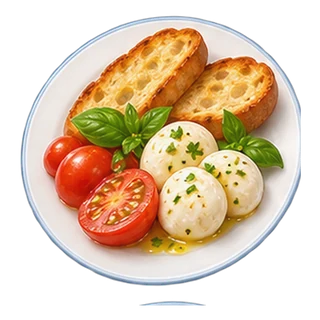
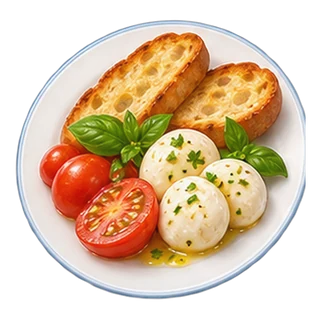
Deep check: dish slivers re-cut, regulars' portrait back on the card, flag emoji replaced, stale tests updated, pages crawl
- 22 dish pictures carried slivers of the neighbouring plate; make-dish-assets.py drops small edge-touching pieces; all 221 re-verified
- OrderArrivalCard shows the regular's CustomerBust again (npc-sprites-qa F5)
- Italian flag emoji replaced by painted dishes (levels 20/30, camp-italian-garden-plate)
- usd-currency-qa G false positive on the card's SVG path fixed
- Tests updated to the new rule (RULE CHANGE 2026-11-21, none weakened): idle-qa W2, phase5-qa A13, phone-layout-qa B2, restaurant-measures-qa A4
- New tools/e2e/pagesaudit.mjs: 58-page crawl (requests, broken images, icon sizes, raw emoji, sideways scroll)
- HANDOFF entry; oven-step-qa E2 still a documented stale diff guard

diff --git a/src/components/kc/game/OrderArrivalCard.tsx b/src/components/kc/game/OrderArrivalCard.tsx
@@ -1,4 +1,4 @@
-import type { CSSProperties } from "react";
+import type { CSSProperties, ReactNode } from "react";
 import { dishArtUrl } from "@/game/dishArt";
 import "./orderCard.css";
 
@@ -26,6 +26,8 @@ export type OrderCardProps = {
   compact?: boolean;
   /** The font size of the card (the screen sets it from its own size). */
   size: string;
+  /** A named regular's portrait (`CustomerBust`), shown on the banner's left edge once they are seated; without one nothing is drawn. */
+  bust?: ReactNode;
 };
 
 function Hat() {
@@ -116,14 +118,14 @@ function Laurel({ flip }: { flip?: boolean }) {
       ].map(([x, y, r], i) => (
         <g key={i}>
           <path
-            d={`M${x} ${y}c-9-2-16 4-17 12 8 1 15-3 17-12Z`}
+            d={`M${x} ${y} c-9-2-16 4-17 12 8 1 15-3 17-12Z`}
             fill="#f2c85a"
             stroke="#c9942c"
             strokeWidth="1.2"
             transform={`rotate(${(r as number) - 60} ${x} ${y})`}
           />
           <path
-            d={`M${(x as number) + 5} ${(y as number) - 4}c8-4 15 0 17 8-8 2-15-1-17-8Z`}
+            d={`M${(x as number) + 5} ${(y as number) - 4} c8-4 15 0 17 8-8 2-15-1-17-8Z`}
             fill="#f7d878"
             stroke="#c9942c"
             strokeWidth="1.2"
@@ -173,6 +175,7 @@ export function OrderArrivalCard({
   prepCook,
   compact = false,
   size,
+  bust,
 }: OrderCardProps) {
   const art = dishArtUrl(dish.id);
   const heading =
@@ -193,6 +196,11 @@ export function OrderArrivalCard({
       onClick={(e) => e.stopPropagation()}
     >
       <div className="oc-banner">
+        {bust && state === "seated" ? (
+          <span className="oc-bust" data-testid="order-card-bust">
+            {bust}
+          </span>
+        ) : null}
         <Hat />
         <Sprig />
         <Sprig flip />

diff --git a/src/components/kc/game/ServiceFloor.tsx b/src/components/kc/game/ServiceFloor.tsx
@@ -30,6 +30,7 @@ import { GuestPoses } from "../restaurantMap/GuestPoses";
 import { ambientDiners } from "@/game/restaurant/ambientDiners";
 import { dishArtUrl } from "@/game/dishArt";
 import { OrderArrivalCard } from "./OrderArrivalCard";
+import { CustomerBust } from "@/components/kc/common/CustomerBust";
 import { TableCash } from "../common/TableCash";
 import { cashSpotBeside } from "@/game/restaurant/tableCash";
 import { AUTO_SERVE_MS } from "@/game/restaurant/prepCookAuto";
@@ -523,6 +524,14 @@ export function ServiceFloor({
               onStart={finish}
               prepCook={prepCook && sitting ? prepCook : undefined}
               compact={!wide}
+              bust={
+                <CustomerBust
+                  customerId={customer.id}
+                  expression="neutral"
+                  fallback={customer.avatarEmoji}
+                  em={2}
+                />
+              }
               size={wide ? "clamp(8px, min(2.4cqh, 1.4cqw), 30px)" : "clamp(8px, 2.5cqw, 15px)"}
             />
           </div>

diff --git a/src/game/levels/levelDefinitions.ts b/src/game/levels/levelDefinitions.ts
@@ -712,7 +712,7 @@ const SOURCE_LEVELS: LevelDefinition[] = [
     subtitle: "The chapter's signature dish",
     description:
       "Everything this chapter taught, on one plate — dice, slice, chop, and rings, all Italian.",
-    emoji: "🇮🇹",
+    emoji: "🥗",
     recipeId: "camp-italian-garden-plate",
     objectives: [
       { type: "prepareIngredient", ingredientId: "tomato", technique: "dice" },
@@ -1098,7 +1098,7 @@ const SOURCE_LEVELS: LevelDefinition[] = [
     subtitle: "Two customers, the whole chapter combined",
     description:
       "A full night of service — two customers, drawing on every Italian recipe this chapter has taught.",
-    emoji: "🇮🇹",
+    emoji: "🍝",
     recipeId: "level-30",
     objectives: [
       { type: "prepareIngredient", ingredientId: "bread", technique: "slice" },

diff --git a/src/components/kc/game/orderCard.css b/src/components/kc/game/orderCard.css
@@ -50,6 +50,28 @@
   vertical-align: 0.25em;
   color: #e9b94f;
 }
+.oc-bust {
+  position: absolute;
+  left: -1.35em;
+  top: 50%;
+  z-index: 3;
+  width: 2.9em;
+  height: 2.9em;
+  transform: translateY(-50%);
+  border-radius: 50%;
+  border: 0.16em solid #e2b45a;
+  background: #fff6e1;
+  box-shadow: 0 0.2em 0.5em rgba(30, 14, 4, 0.5);
+  display: grid;
+  place-items: center;
+  overflow: hidden;
+  font-size: 1.5em;
+  line-height: 1;
+}
+.oc-bust > * {
+  width: 100% !important;
+  height: 100% !important;
+}
 .oc-hat {
   position: absolute;
   left: 50%;

diff --git a/src/game/recipes/campaignRecipes.ts b/src/game/recipes/campaignRecipes.ts
@@ -696,7 +696,7 @@ const SOURCE_CAMPAIGN_RECIPES: RecipeDefinition[] = [
   {
     id: "camp-italian-garden-plate",
     name: "Italian Garden Plate",
-    emoji: "🇮🇹",
+    emoji: "🥗",
     cuisineId: "italian",
     authenticity: "B",
     components: [

diff --git a/scripts/make-dish-assets.py b/scripts/make-dish-assets.py
@@ -53,10 +53,19 @@ for sh in sheets:
         core = al > CORE
         labels, n = ndimage.label(ndimage.binary_dilation(core, structure=np.ones((3, 3)), iterations=4))
         keep = np.zeros_like(core)
+        parts = []
         for lab in range(1, n + 1):
             part = (labels == lab) & core
             if part.sum() >= 300:  # the dish and its garnish; not a speck
-                keep |= part
+                ys_, xs_ = np.nonzero(part)
+                touches = xs_.min() <= 2 or ys_.min() <= 2 or xs_.max() >= CELL - 3 or ys_.max() >= CELL - 3
+                parts.append((part, int(part.sum()), touches))
+        biggest = max((p[1] for p in parts), default=0)
+        for part, area, touches in parts:
+            # a small piece that touches the cell edge is the rim of the NEIGHBOUR's plate reaching over the cell line (some plates overhang by a few px): not part of this dish
+            if touches and area < 0.35 * biggest:
+                continue
+            keep |= part
         if keep.sum() < 3000:
             problems.append(f"{sh['sheet']} #{i + 1} {dish['id']}: no dish found")
             continue

diff --git a/docs/HANDOFF.md b/docs/HANDOFF.md
@@ -13,6 +13,7 @@
 - **Fridge Sort laid out like the developer's mock-up (2026-11-20, uncommitted):** wide window only (the upright layout is untouched). `FridgeSortGame.tsx`: the root is a container (`cqh` / `cqw`) and, with `land:`, a two-column grid (46 / 54): HUD row (back, timer plaque, score), star bar, note pill + ? on the left, a BIG basket (`min(100%, 78cqh)` wide; pieces are a share of the basket's width, never under 48 px: `px()`) and the Delivery pill (wraps) under it; on the right the cream cabinet with a gold rim from 11.5 % to 95 % of the height, the Prep Cook pill (cream) at its top right. Shelf rows are fixed shares of the window's height (`rowSizes`: band 10.5 cqh, bin row 17 cqh, 8.6 / 13 when dense; a few shelves stretch up to 1.3 x, many scroll under the "More shelves below" cue). Checked by screenshot at 1917 x 912, 1280 x 720 and 844 x 390; `fridgesort.mjs` S29 (new: basket left and >= 30 % of the width, cabinet right, shelves and pieces >= 48 px, no sideways scroll, tap-tap sorts the basket) and all old checks pass. PICTURES INTEGRATED (developer 2026-11-21: Codex delivered both sets): (A) the room `TL-game-fridge-sort.png` (brick wall, lantern, jar shelf, chopping boards, checkered cloth; `make-landscape-assets.py` -> `game-fridge-sort.webp`, 108 KB; the wide game uses `backgroundPosition: center 35%` so the jar shelf stays under the note row and the cloth under the basket at any window shape); (B) the crate sheet `Fridge Sort Crates Assets/FSC-crates.png` (5 x 2 cells) cut by the NEW `scripts/make-fridge-sort-crates.py` into the nine files the game already loads (`bin-roots|salad|stems|pods`, `drawer-fruit|greens`, `rack-butter|aromatics`, `shelf-glass`, 360 px wide, 249 KB in all, all crates on ONE canvas so the blank name slat is at the same height). RULE CHANGE in `FridgeSortGame.tsx`: all eight crates are one `bin` kind (name tag at `top-[79%]`); the old drawer / rack shapes are gone, and `make-market-assets.py` no longer rebuilds those nine files (it would overwrite the new ones). The new crates are used in the UPRIGHT layout too (same files). Checked by screenshot (1917 x 912, 1280 x 720, 390 x 844); `fridgesort.mjs`, `fridge-sort-qa`, `landscape-art-qa` (10.4 MB < 12 MB), `full-screen-qa` pass. The HUD line icons stay until the painted icon sheets arrive.
 - **Customers integrated into the wide dining room (developer 2026-11-20: "the customers are not integrated properly", uncommitted):** in the wide dining picture (the view while a customer is served: `ServiceFloor`, `.sf[data-wide]`) the guests were drawn 63 px tall beside 100 px chairs, the reaction face was a huge circle floating far above them, and the other 12 tables were empty. (1) SIZE: `.sf[data-wide] .sf-person` is 5.2 % of the picture's width (was 3.3 %) and everything that rises above a head (order bubble, face, carried plate) is measured in the VIEW's height (`--h`), so it follows the picture; the plate is 3.2 %. (2) SEAT: a seated guest is the back view cut at the waist (the tall map's chair hid the legs); in the wide picture the chair is painted, so `.guest-back-view` is moved down 24 % to put the waist on the seat. (3) OTHER DINERS: `src/game/restaurant/ambientDiners.ts` (new): about three tables in four of each stage have one guest in their front chair (`.sf-diner`, `data-testid=floor-diner`, drawn only when wide, before the party so the party is on top); the tables were measured on a 5 % grid over each `dining-0N.webp` (NOT `STAGE_TABLES_WIDE`, which belongs to the map pictures: using it put the guests in the street). 21 diners over the six stages; presentation only. Guard: `service-floor-qa` F1 (diners inside the room, never on a front table, stable) and F2 (wide only). Checked by screenshot (a throwaway preview page, deleted) on the humble, cafe and grand rooms. `service-floor-qa`, `dining-floor-qa`, `guest-walk-qa`, `restaurant-floor-life-qa`, `restaurant-guests-qa` pass. NOT done: diners at the side and back chairs (the people sheets have no seated front or side pose), walking ambient guests in this view, and `servicefloor.mjs` / `servicefloorstages.mjs` are STALE (level numbering) so the flow was not re-run end to end.
 - **Dessert Run wide board redone like the developer's mock-up (2026-11-20, uncommitted):** `dessertRunWide.ts` rewritten, rules untouched. Header across the top (back, a wide name pill, speed / tip / pause on the right: the screen's DOM); the big upright plate at the top left with the aisle and cart under it (`SCALE` 0.79, `CX`/`PY`), the two tables and four guests along the bottom either side of the cart (the plate's lower rim sits behind the guests' heads); on the right a wooden cabinet painted in code: the five standby spots in a ROW on the top shelf (the first nearest the plate) and the queue under it as COLUMNS, one a lane, front waiter on top, `+N` under a column with more than three waiters, a tap anywhere in a column sends its front waiter (`laneAtWide`). The room's counter along the bottom is a full-width DOM strip (`dr-counter`) behind the canvas. RULE CHANGE (test updated): `dessertrun.mjs` D9 taps a COLUMN now (lanes were rows). Checked by screenshot at 1917 x 912, 1280 x 720 (a 5-lane level) and 844 x 390; `dessertrun`, `portraitonly`, `full-screen-qa`, `landscape-art-qa` pass. The mock-up's wall background (plain wood, lanterns, flowers) is NOT made: the Codex room `game-dessert-run.webp` is behind it.
+- **DEEP CHECK for bugs and for icon / image integration (developer 2026-11-21, uncommitted):** ran ALL 185 `*-qa.mts` suites, tsc, eslint (0 errors; 16 old react-refresh warnings), preflight, and a NEW crawl `tools/e2e/pagesaudit.mjs` (58 pages: Kitchen, Orders, Market + 9 tabs, Business + 8 tabs, Inventory + 4 tabs, Progress, the map, the Second Floor, at 1500 x 850 and 390 x 844: no 4xx / 5xx request, no page or console error, no broken `<img>`, every painted icon 0.8-1.7 em of its text, no REAL emoji left as raw text (Extended_Pictographic; the text symbols checkmark, star and diamond are typography), no sideways scroll): ALL 58 PASS, and the screenshots were read by eye. FOUND AND FIXED: (1) 22 of the 221 dish pictures carried small grey arcs, slivers of the neighbouring plate reaching over the cell line (DS-05, 07, 09, 10): `make-dish-assets.py` now drops a small piece that touches the cell edge (< 35 % of the dish's own area); re-cut; a scan finds no dish with a separate piece; every dish was compared with its recipe name on labelled sheets. (2) My new starting card had DROPPED the regulars' portrait (`npc-sprites-qa` F5): it is back as a round `CustomerBust` on the banner's left edge once the customer sits (`OrderArrivalCard` `bust` prop, `.oc-bust`). (3) The Italian FLAG emoji (levels 20 and 30, recipe `camp-italian-garden-plate`) shows as the letters "IT" on Windows and had no icon: now a salad and spaghetti (no flag emoji is left in `src`). (4) `usd-currency-qa` G tripped on `${y}c-9` in the card's SVG path (read as money formatting): a space was added. STALE TESTS updated to the real current code, each marked RULE CHANGE 2026-11-21 (they broke on the 2026-11-19/20 landscape work, none was weakened): `idle-qa` W2 (the Second Floor's cash spot is `wide ? WIDE_SF_CASH_AT : PICKUP_CASH_AT`), `phase5-qa` A13 (the cutting screen's wide kitchen picture), `phone-layout-qa` B2 (Fridge Sort's two-column grid), `restaurant-measures-qa` A4 (the rank card's cap is `max-w-[calc(100%-84px)]` / `land:max-w-[64%]`). STILL FAILING, documented stale and unrelated: `oven-step-qa` E2 (a diff guard against an old base commit; it also lists `ambientDiners.ts`). NOT FIXED, for the developer: the BUILD IS 51.9 MiB against the preflight's advisory 15 MiB target (it was already over; this session added about 22 MB: the maps and rooms 13 MB in `landscape-art`, the dishes 6.4 MB, the icons 1.6 MB); each picture loads only when a screen needs it, but the upload and a cold start are heavier. Options if wanted: webp quality / size trims, or leaving the 221 dishes out of the first build and loading only the 138 campaign dishes. Also: a chunk over 512 KB (`Buttons`, 1.1 MB) warns on every build (old).
 - **DISH PICTURES INTEGRATED (developer 2026-11-21: all 14 Codex dish sheets delivered, "start integrating", uncommitted):** `Dish Sheets Assets/DS-01..14.png` (2048 x 2048, 4 x 4 cells) were cut by `scripts/make-dish-assets.py` into `public/dishes/<recipe id>.webp` (320 x 320, 221 dishes, 7 MB, at most 35 KB each) and `src/game/dishArtFiles.ts` now registers all 221, so EVERY recipe has its picture (the 91-level campaign, the pools and the Menu). The sheets' plates stay inside their cells but a faint baked shadow bridges the cell lines (a shape-based cut merged four plates), so the script cuts each dish from its OWN cell and keeps only the SOLID pixels (`CORE` alpha 150, a 2 px soft edge, garnish joined by a small dilation): the shadow is dropped and the game draws its own (`drop-shadow` on `.oc-dish` and `.sf-plate-img`). Viewed: all 221 together on cream and dark wood, and four at full size. ON SCREEN: the starting card shows the picture on its checkered cloth (14.2 em; the phone's compact card now also shows a small plate, 9.6 em, when a picture exists), and the plate set on the table while serving is the same picture (`PlateFace`, 118 % of the old disc's width, no white disc under it). Checked in the REAL game (Kitchen > See all orders > Prepare) at 1500 x 850 and 390 x 844 and in the serving view for a party of 1 and 3. `dish-art-qa` B3 / B4 (new: all 221 recipes have a picture, each under 40 KB) and A-D pass, with `service-floor-qa`, `dining-floor-qa`, `ui-copy-qa`, `full-screen-qa`, `landscape-art-qa`, `emoji-icons-qa`, `landscape.mjs` 8/8, tsc, eslint, `npm run preflight`. NOT done: the dish picture is not yet used in the Menu, the order list, the Served card or the Journal (`dishArtUrl(recipeId)` is ready for them); one dish (`camp-garden-tomato-cucumber`) has a slightly ragged rim at its lower left (a leftover of the baked shadow, only visible enlarged); the total game size grew by about 7 MB (dishes) and 2 MB (icons), loaded one picture at a time. 
 - **The starting card like the mock-up + the dish-art pipeline (developer 2026-11-21: "make the starting card like this; what if we designed the 91 dishes using Codex and used them while serving too", uncommitted):** (1) NEW `OrderArrivalCard.tsx` + `orderCard.css` replace the old side panel of `ServiceFloor`: a dark wooden banner with a chef's hat and green sprigs ("MATEO'S ORDER", or "A customer / A party of 3" until they sit), a cream card with a gold frame and corner flourishes, the dish row (painted icon + name, two lines max), the customer's line in Caveat, a divider, the dish on a checkered cloth, the big orange "Start Cooking" between two gold laurels, the green "Prep Cook cuts it" and the "Auto: on/off" switch. All painted in CSS / SVG, sized in `em` of one font size (`--oc`, from the stage's `cqh` / `cqw`), so it scales as one piece; centred over the dining room in a wide window, a `compact` version (no plate, no cloth) under the picture on an upright phone. The root of `ServiceFloor` is now a size container and no longer a row. Checked in the REAL game flow (Kitchen > See all orders > Prepare) at 1500 x 850 and 390 x 844, and by screenshot at 1917 x 912, 1280 x 720, 844 x 390. (2) DISH ART SLOT: `src/game/dishArt.ts` + `dishArtFiles.ts` (the ids that have `public/dishes/<recipe id>.webp`, empty today); the card shows the dish's own picture when it has one, else its painted icon on a white plate with a blue rim; `PlateFace` in `ServiceFloor.tsx` draws the same picture for the plates set on the tables (the served member's plate and a party's other plates). The recipe id now travels with the dish (`PartyDish.id`, `Preparation.tsx`, `App.tsx` partyWaiting). Tested end to end with a stand-in picture (card and table plate), then removed. (3) THE 91 DISHES, counted: the campaign has 91 levels but 87 different headline dishes, and 138 different recipes can appear on the card in the 91 levels (the level pools); the Menu has 221 in all (83 more for menu guests). `docs/planning/DISH-ART-CODEX-PROMPTS-2026-11-21.md`: 14 sheets of 16 (2048 x 2048, 4 x 4), phase 1 = DS-01..DS-09 (every dish of the campaign, in campaign order), phase 2 = DS-10..DS-14 (menu guests), with the real ingredient list of each dish, the mock-up's plate as the exact style reference, a fixed plate size / viewpoint, and an optional prompt for painting the card's own pieces; `scripts/dish-sheets.json` is the manifest; `scripts/make-dish-assets.py` cuts delivered sheets into `public/dishes/` and writes `dishArtFiles.ts` (tested on a synthetic sheet; sheets may arrive in any order). Mock-up saved as `docs/planning/reference/order-card-mockup-2026-11-21.png`. RULE CHANGES (tests updated): `service-floor-qa` D6 (the card's Start cooking calls `finish` and is >= 48 px in `orderCard.css`; it was a KButton), `prepcook.mjs` P0 (the button is styled "Start Cooking", innerText match ignores case). NEW `scripts/dish-art-qa.mts` A-D (all 221 recipes in the manifest once, registry vs files, lookup, the card's parts and 48 px buttons, the plates use the picture). Passing: `service-floor-qa`, `dining-floor-qa`, `ui-copy-qa`, `full-screen-qa`, `landscape-art-qa`, `dish-art-qa`, `landscape.mjs` 8/8, tsc, eslint, Prettier. NOT re-run / known: `prepcook.mjs` and other old suites are STALE on this build (the documented 8 failures), so the card's flow was verified by hand in the real game, not by them; the card's wood banner, hat, laurels and cloth are code-drawn (a painted set is an optional prompt).
 - **Painted icons INTEGRATED (developer 2026-11-21: the 10 Codex icon sheets are delivered, "start integrating", uncommitted):** `scripts/make-icon-assets.py` (new) cuts the sheets in `Icon Sheets Assets/` (git-ignored, 5 x 5 cells of 400 px, awards-nature 6 x 5) into `public/icons/<slug>.webp` (128 px, 254 icons, 2.2 MB) and writes `src/lib/paintedIconFiles.ts` (emoji -> slug). An icon is cut by its SHAPES (connected pixels, a small dilation joins a sparkle to its icon, each shape goes to the cell of its centre; a shape bigger than 1.35 cells is two icons touching and is split on the grid line, none were), not by the grid line, because several icons spill a few pixels over their cell. 👵 and 👵🏻 are one key (the neutral grandma wins; `grandma-light` was not kept). `paintedIcons.ts`: `ICON_FILES = PAINTED_ICON_FILES`; an ingredient's own painting still wins (the Market and the recipes show the same picture), then the sheet icon, then the coloured line icon (now only for an emoji the game never uses). `.gi.gi-pic` in `styles.css`: 1.4 em, `vertical-align: middle`, `margin-block: -0.25em` (the first values sat the pictures too low: an inline-block's baseline is its strut's, not its bottom). RULE CHANGES (tests updated): `emoji-icons-qa` B2 (the "emoji with no icon" example is the evil eye, the olive is painted now), new F1-F4 (every mapped emoji has its file and none is orphaned, each under 24 KB, the icons of the screenshots are painted, plain keys), `emojiicons.mjs` check 4 and the probe (`.gi-img` counts as a drawn icon, a painted one is 1.4-1.45 em, size window 6-48 px). Checked by screenshot (Market tabs, Business tabs and cards, the restaurant map chips) at 1500 x 850; `emojiicons`, `widelayout`, `emoji-icons-qa`, `landscape-art-qa`, `full-screen-qa` and `npm run preflight` pass. NOT done: a by-eye pass of EVERY page for a painted icon that is too big or too small in an odd container (the size follows the text, so a few tight spots may need a nudge); the coloured line icons stay in the code as the fallback. The old prompts file's "255 icons waiting" is now DONE.
